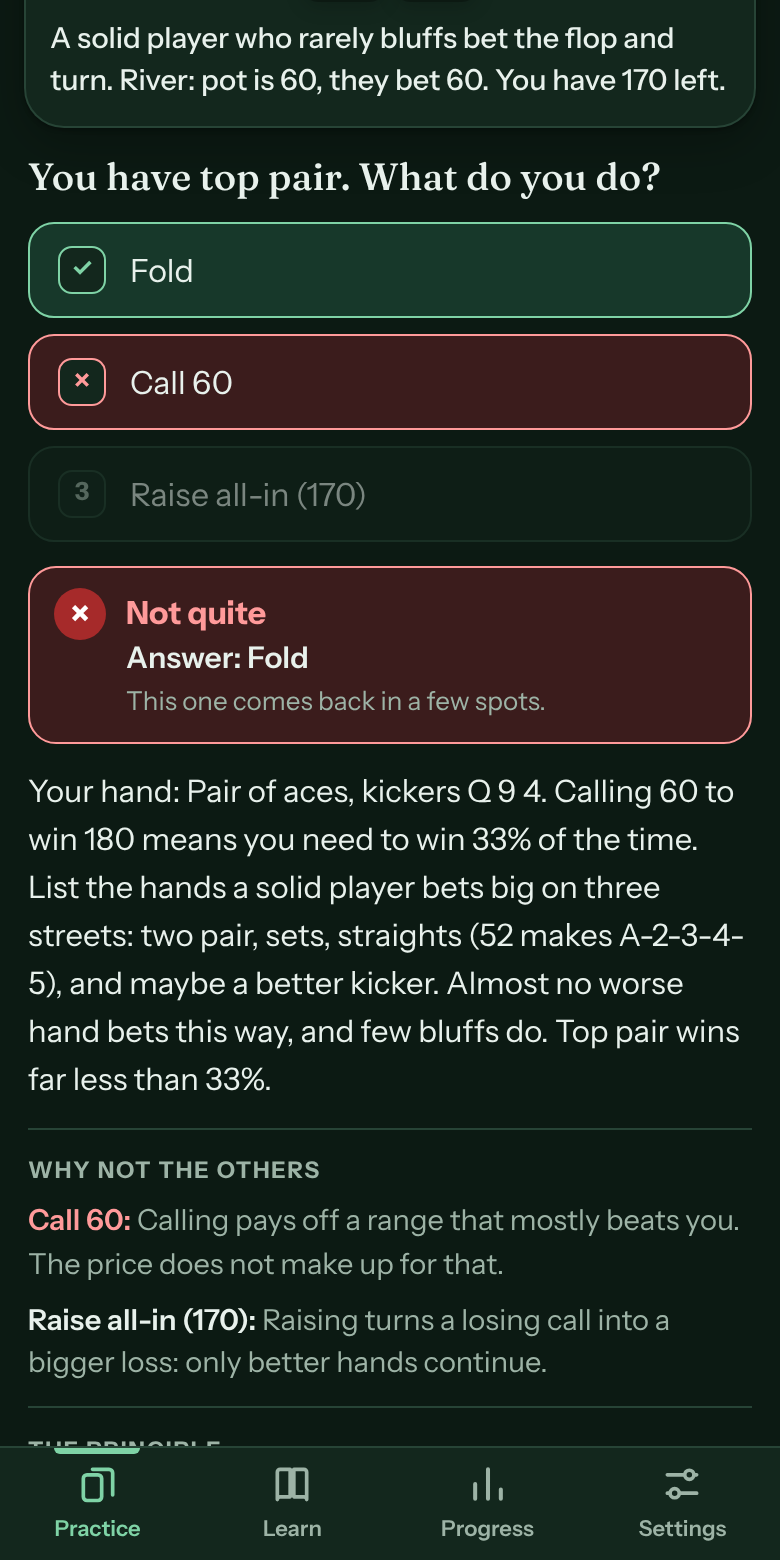
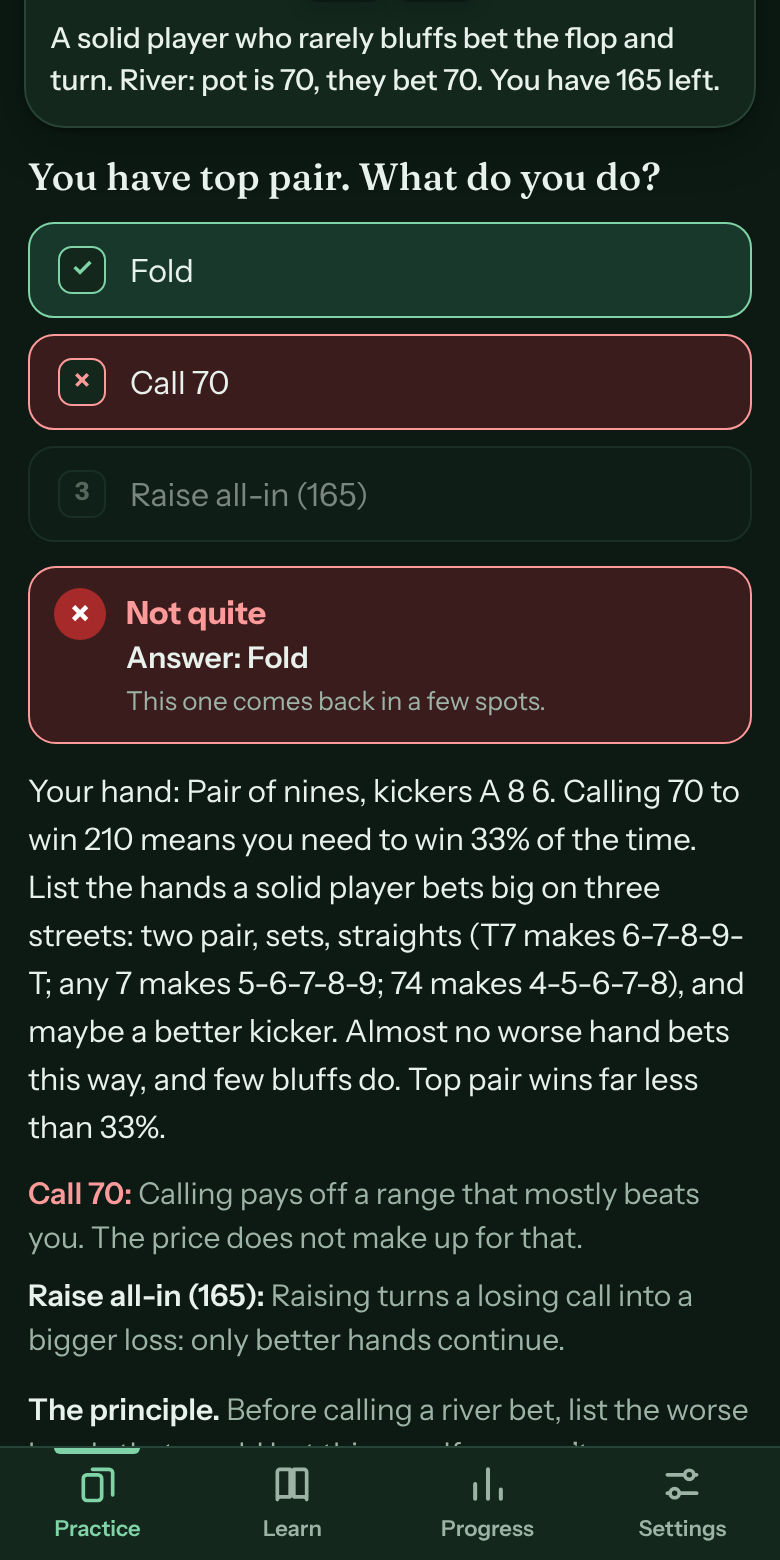
Show the feedback as two parts with nothing to tap open (v2.10.1)
The owner did not want to tap sections open after scrolling down.

- Part one, the explanation: why, why each wrong option loses, and the
  principle, as plain text.
- Part two: the rules or the range, always shown.
- The collapsible sections are gone. The common mistake is no longer shown;
  the why-not lines cover it.

Claude-Session: https://claude.ai/code/session_01WSPbWFAZjPPKDhCczZxpF9

diff --git a/index.html b/index.html
@@ -347,14 +347,12 @@ h1{font-family:var(--serif);font-weight:700;font-size:20px;line-height:1.1;margi
 .verdict span:not(.vi){display:block;font-weight:600;font-size:15px}
 .verdict small{display:block;font-size:13px;color:var(--muted);margin-top:1px}
 .why{margin-top:12px;font-size:15.5px;line-height:1.55}
-.wn{margin-top:12px;padding-top:12px;border-top:1px solid var(--line);font-size:14.5px;line-height:1.5}
-.wn>span{display:block;font-size:11.5px;font-weight:700;text-transform:uppercase;letter-spacing:.08em;color:var(--muted);margin-bottom:6px}
+.wn{margin-top:10px;font-size:15px;line-height:1.5}
 .wn p{margin-top:6px;color:var(--muted)} .wn p b{color:var(--ink);font-weight:600} .wn p b::after{content:":"} .wn p.mine b{color:var(--bad)}
-.more{margin-top:10px;border-top:1px solid var(--line)}
-.more summary{display:flex;align-items:center;justify-content:space-between;min-height:44px;cursor:pointer;list-style:none;font-size:11.5px;font-weight:700;text-transform:uppercase;letter-spacing:.08em;color:var(--muted)}
-.more summary::-webkit-details-marker{display:none}
-.more[open] summary svg{transform:rotate(180deg)}
-.more>div{font-size:15.5px;line-height:1.55;padding-bottom:4px}
+.prin{margin-top:12px;font-size:15px;line-height:1.5;color:var(--muted)} .prin b{color:var(--ink);font-weight:600}
+.ref{margin-top:14px;padding-top:12px;border-top:1px solid var(--line);font-size:15px;line-height:1.5}
+.ref>span{display:block;font-size:11.5px;font-weight:700;text-transform:uppercase;letter-spacing:.08em;color:var(--muted);margin-bottom:8px}
+.ref>p{margin-bottom:8px}
 .empty{background:var(--surface);border:1px solid var(--line);border-radius:20px;padding:22px 16px;text-align:center}
 .empty .btn{margin-top:14px}
 
@@ -1827,7 +1825,7 @@ function variant(topic,f,skill,avoid){
 /* Shown at the bottom of the page and the menu, so you can tell when a new release has loaded.
    v must match the cache name in sw.js (holdem-drill-X.Y.Z); the tests check it. Small fix: bump Z. New feature:
    bump Y. Big change: bump X. at is the release time in UTC, shown in the phone's own time zone. */
-var BUILD={v:"2.10.0",at:"2026-11-14T03:31Z"};
+var BUILD={v:"2.10.1",at:"2026-11-14T03:34Z"};
 function buildText(){
   var d=new Date(BUILD.at),t;
   try{t=d.toLocaleString("en-GB",{day:"numeric",month:"short",year:"numeric",hour:"2-digit",minute:"2-digit",hour12:false});}catch(e){t=BUILD.at;}
@@ -1911,18 +1909,18 @@ function explHTML(g,ok){
     (ok?'':'<span>Answer: '+color(right)+'</span>')+(g.memo?'<small>'+g.memo+'</small>':'')+'</div></div>'+
     /* On a wide window the Next button sits here, under the verdict; on a phone it is the fixed bar at the bottom. */
     '<button class="btn nextin" data-act="next">'+nextLabel()+'</button>';
-  /* The chart or rule table is always open, right or wrong, so you see where your hand sits every time. */
-  var rt=ruleTable(g),openRef=true;
-  /* Why each wrong option loses sits straight under the main reason, with the one you picked first. */
+  /* Two parts, both always in full with nothing to tap open (the owner asked for this): the explanation (why, why
+     each wrong option loses with the one you picked first, and the principle), then the rules or the range. The
+     common mistake from E() is not shown: the why-not lines cover it. */
+  var rt=ruleTable(g);
   var wn=g.o.map(function(o,i){return {i:i,t:o.t,n:whyNot(g,i)};}).filter(function(x){return x.n;}).sort(function(a,b){return (b.i===picked)-(a.i===picked);});
-  var wnH=wn.length?'<div class="wn"><span>Why not the other'+(wn.length>1?'s':'')+'</span>'+wn.map(function(x){return '<p'+(x.i===picked?' class="mine"':'')+'><b>'+color(x.t)+'</b> '+color(x.n)+'</p>';}).join("")+'</div>':'';
-  if(!secs.length)h+=wnH;
-  secs.forEach(function(s,i){
-    h+=i===0?'<div class="why">'+color(s[1])+'</div>'+wnH:'<details class="more"'+(ok?'':' open')+'><summary>'+s[0]+CHEV+'</summary><div>'+color(s[1])+'</div></details>';
-  });
-  if(rt)h+='<details class="more"'+(openRef?' open':'')+'><summary>The rules'+CHEV+'</summary><div><p style="margin-bottom:8px">'+rt.t+':</p><div class="gtable">'+
-    rt.rows.map(function(r,i){return '<div'+(i===rt.hi?' class="me"':'')+'><span>'+r[0]+'</span><b>'+r[1]+'</b></div>';}).join("")+'</div></div></details>';
-  if(g.rkey)h+='<details class="more"'+(openRef?' open':'')+'><summary>The full range'+CHEV+'</summary><div>'+color(rangeText(g.rkey))+rangeGrid(g.rkey,g.rhl)+'</div></details>';
+  var prin="";secs.forEach(function(x){if(x[0]==="The principle")prin=x[1];});
+  if(secs.length)h+='<div class="why">'+color(secs[0][1])+'</div>';
+  if(wn.length)h+='<div class="wn">'+wn.map(function(x){return '<p'+(x.i===picked?' class="mine"':'')+'><b>'+color(x.t)+'</b> '+color(x.n)+'</p>';}).join("")+'</div>';
+  if(prin)h+='<p class="prin"><b>The principle.</b> '+color(prin)+'</p>';
+  if(rt)h+='<div class="ref"><span>The rules</span><p>'+rt.t+':</p><div class="gtable">'+
+    rt.rows.map(function(r,i){return '<div'+(i===rt.hi?' class="me"':'')+'><span>'+r[0]+'</span><b>'+r[1]+'</b></div>';}).join("")+'</div></div>';
+  if(g.rkey)h+='<div class="ref"><span>The full range</span>'+color(rangeText(g.rkey))+rangeGrid(g.rkey,g.rhl)+'</div>';
   return h;
 }
 function drillBar(){

diff --git a/sw.js b/sw.js
@@ -1,4 +1,4 @@
-const CACHE = "holdem-drill-2.10.0";
+const CACHE = "holdem-drill-2.10.1";
 const FILES = ["./", "index.html", "manifest.webmanifest", "icon-192.png", "icon-512.png", "icon-maskable-512.png", "apple-touch-icon.png", "icon.svg",
   "fonts/fraunces-latin-500-normal.woff2", "fonts/fraunces-latin-700-normal.woff2", "fonts/instrument-sans-latin-400-normal.woff2",
   "fonts/instrument-sans-latin-500-normal.woff2", "fonts/instrument-sans-latin-600-normal.woff2", "fonts/instrument-sans-latin-700-normal.woff2"];

diff --git a/CLAUDE.md b/CLAUDE.md
@@ -21,7 +21,7 @@ A mobile-first practice app for **live No-Limit Hold'em cash games, heads-up to 
 8. **Skills and reviews**: `skillOf(g)` names what a spot tests (`topic|sk`, else `topic|rkey`). Every generator sets `sk` unless `rkey` already says it (for example `Flop c-bets|nothing|dry`, `River vs big bets|top|solid`). `variant(topic, f, skill)` deals a new spot of the same skill. When adding a generator, give it an `sk`; the tests check that every skill can be dealt again.
 9. **UI and state** (after `/* ===== State`): localStorage key `endlessHoldemDrill.v2`. `render()` draws the header, the current page into `#page`, and the bottom navigation; `setView(v)` switches page. Table size is a range `st.lo`..`st.hi`, changed only in Settings, which opens a sheet with a two-handle slider (either handle can be either end). The header shows the range as plain text, not a control. Theme (`st.theme`: dark, light, or auto) sets `data-theme` on `<html>`, and a MutationObserver re-applies it if the host changes it.
 10. **Navigation**: a bottom bar with four pages. **Practice** (the spot), **Learn** (Lessons, Ranges and Raising), **Progress** (accuracy ring, review counts, accuracy by topic weakest first, recent mistakes) and **Settings** (table size, topics, appearance, sound, reset). Tapping a topic in Progress drills only that topic.
-   - **Practice page**: `tableHTML(g)` draws an oval table with seats in action order clockwise, you at the bottom, the dealer button (white, so it does not look like the gold chips), each seat's action, and the pot and board in the middle (the pot is read from "Pot is N" in `g.act`). `tableChips(g)` reads the chips in front of each player from the spot (blinds, limps, raises, bets and all-ins, using `sub` and the amounts in `g.act`) and the table shows each as a small drawn chip with a white number on the felt (`.stk`), with the pot in the middle as a big number under a small "Pot" label: before the flop the pot is the sum of those chips. The owner chose this look from several options: no pills or plates, and the chip’s colour shows the size (white 1-4, red 5-24, green 25-99, black 100 and up). `placeChips()` puts each chip on the table after every render and on resize: it measures the page, tries every place where the chip would touch the outside of its seat, and takes the free one nearest the side that faces the middle. A place level with the pot costs extra, because a bet beside the pot label read as part of it ("90 POT 90"). Free means on the felt, and clear of every seat (your own seat has a gold ring outside its box, so it gets a wider gap), the dealer button, the pot, the board and the chips already placed. **Chips must always be on the felt**: the number is white, and off the felt it cannot be read in light mode. Fixed positions per seat (CSS classes like "left", "below") were tried first and kept breaking at some table size, so do not go back to them. Seat names must fit inside their boxes (UTG+1 at 9-handed once touched the border). The owner asked for bets and the pot to be on the table, not only in the text. When a generator words an amount in a new way, check that `tableChips` still finds it; the tests check that the chips add up to the pot before the flop and that a bet you are asked to call is shown. Spots without seats show You against Opponent. Your cards sit under your seat. `explHTML` shows the verdict, the answer, then Why; The principle and Common mistake are collapsible, open after a miss and closed after a right answer. The range chart is collapsible too but **always starts open**, right or wrong, in every mode (the owner asked for this). Spots with no range chart can show a rule table in its place: `ruleTable(g)` lists every kind of hand in that situation and its play, with your row marked (Facing limps, Facing 3-bets, Flop c-bets, Facing bets and River vs big bets). Every play-based topic should have either a range chart or a rule table: the owner asked why Facing limps had neither. The rule table is always open too. The table text repeats the strategy rules: **change it with them**.
+   - **Practice page**: `tableHTML(g)` draws an oval table with seats in action order clockwise, you at the bottom, the dealer button (white, so it does not look like the gold chips), each seat's action, and the pot and board in the middle (the pot is read from "Pot is N" in `g.act`). `tableChips(g)` reads the chips in front of each player from the spot (blinds, limps, raises, bets and all-ins, using `sub` and the amounts in `g.act`) and the table shows each as a small drawn chip with a white number on the felt (`.stk`), with the pot in the middle as a big number under a small "Pot" label: before the flop the pot is the sum of those chips. The owner chose this look from several options: no pills or plates, and the chip’s colour shows the size (white 1-4, red 5-24, green 25-99, black 100 and up). `placeChips()` puts each chip on the table after every render and on resize: it measures the page, tries every place where the chip would touch the outside of its seat, and takes the free one nearest the side that faces the middle. A place level with the pot costs extra, because a bet beside the pot label read as part of it ("90 POT 90"). Free means on the felt, and clear of every seat (your own seat has a gold ring outside its box, so it gets a wider gap), the dealer button, the pot, the board and the chips already placed. **Chips must always be on the felt**: the number is white, and off the felt it cannot be read in light mode. Fixed positions per seat (CSS classes like "left", "below") were tried first and kept breaking at some table size, so do not go back to them. Seat names must fit inside their boxes (UTG+1 at 9-handed once touched the border). The owner asked for bets and the pot to be on the table, not only in the text. When a generator words an amount in a new way, check that `tableChips` still finds it; the tests check that the chips add up to the pot before the flop and that a bet you are asked to call is shown. Spots without seats show You against Opponent. Your cards sit under your seat. `explHTML` shows the verdict and the answer, then **two parts, both always shown in full with nothing to tap open** (the owner asked for this: he does not want to tap after scrolling down). Part one is the explanation: why, why each wrong option loses, and the principle. Part two is the range chart or the rule table. The common mistake written in `E()` is not shown; the why-not lines cover it. Do not bring back collapsible sections in the feedback. Spots with no range chart can show a rule table in its place: `ruleTable(g)` lists every kind of hand in that situation and its play, with your row marked (Facing limps, Facing 3-bets, Flop c-bets, Facing bets and River vs big bets). Every play-based topic should have either a range chart or a rule table: the owner asked why Facing limps had neither. The table text repeats the strategy rules: **change it with them**.
 11. **Learn**: three sections.
    - **Lessons** (the default): `LESSONS` is a 16-lesson course in five `UNITS`. A lesson is a few short pages (`h`, `p`, optional `rows` table or a function returning one, `chart`, `tip`) and a `quiz` of real spots from one topic (`n` spots, `pass` mark, optional `test(g)` filter, `need3`). `lessonSpot(L, f)` deals a quiz spot. In the UI, `les` is the open lesson; `startQuiz` sets `focus={q,i,ok,n}`, `advance()` goes to the next spot or `finishQuiz()`, which saves `st.les[id]={best,pass,page}`. Quiz answers count in stats and feed the review ladder. Lesson numbers repeat the strategy rules below: tables that can read a chart do (`pctRow`, `guideRows`). **When a strategy rule changes, check the lesson text too.**
    - **Ranges**: a cheat sheet of every chart at once, not tied to the table-size setting, because a seat's range depends on how many players are left to act, not on how many sat down. `learnAll()` lists each chart once (opening, big blind defense, facing a raise, short stack); `keySizes(k)` says at which table sizes it comes up (from `learnGroups(f)`, the charts that exist at one size), and each card shows that with `keySub(k)`, plus `learnNote(k)`, the grid and the edges. Drilling uses a table size inside the slider range when the chart comes up there. "Drill this chart" sets `focus={k,f}` and `next()` deals only that chart via `drillSpot` until Stop. When adding a chart, add it to `learnGroups` and `learnAll`.
